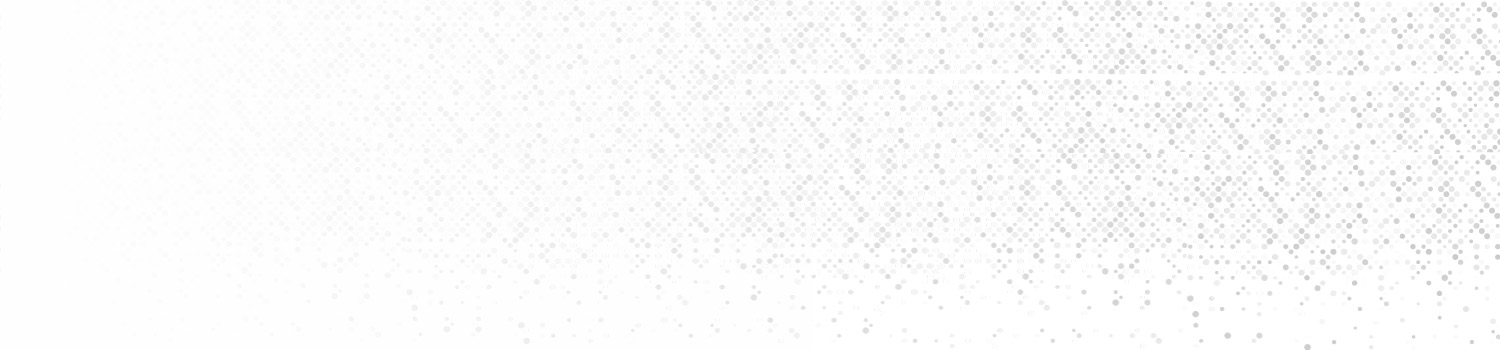
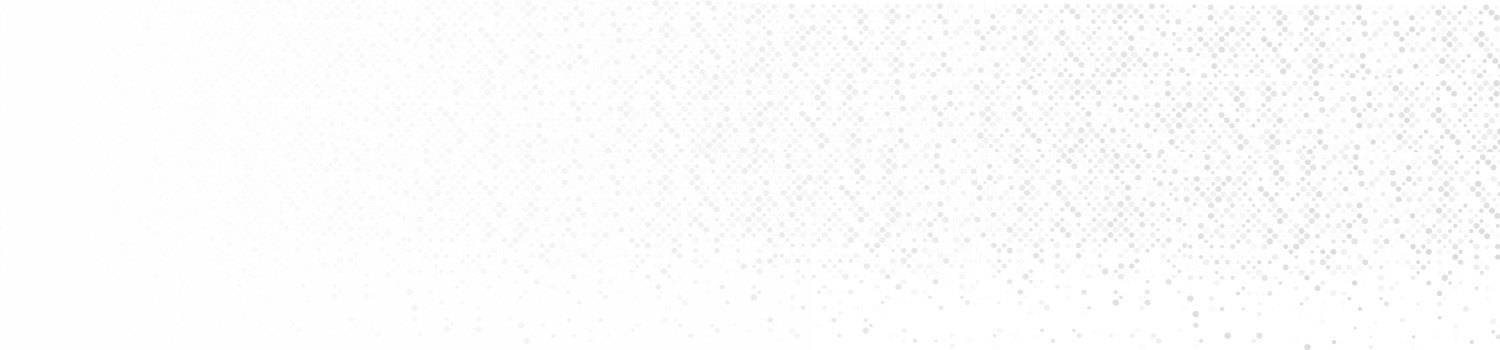
update images; fine tune

diff --git a/lm.html b/lm.html
@@ -47,7 +47,6 @@
         background: url(images/dotsBg.jpg);
         background-size: cover;
         background-position: center;
-        min-height: 400px;
         border-bottom: 5px solid #10243e;} 
     
      .btn-lm{background: #bc4123;
@@ -62,46 +61,50 @@
       #homeBuckets, #midSection, #testimonials, #footSection {
       padding: 0 20px;}
 
-      #midSection{background: #bc4123;
-        background-repeat: repeat-x;
-        min-height: 400px;
-        border-bottom: 5px solid #10243e;
-        border-top: 5px solid #10243e;
+      #midSection{/*background: rgb(191,168,159);
+      background: linear-gradient(180deg, rgba(191,168,159,1) 0%, rgba(250,245,241,1) 100%);*/
+      background: url(images/dotsB.png);
+      background-size: cover;
+      background-position: center;
+      min-height: 400px;
+              /*border-bottom: 5px solid #10243e;
+              border-top: 5px solid #10243e;*/
         width: 100%;}
 
       #midSection h2{font-size:2.5rem;
-         color: #fff;
+         /*color: #fff;*/
         }
       #midSection .border-bottom{
-      border-color: #10243e !important;}
+      border-color: #bc4123 !important;}
 
       #midSection h3{
         font-weight:600;
       font-size: 1.8rem;}  
 
       #midSection h3, #midSection p{
-       color: #fff;
+       /*color: #fff;*/
       } 
 
        #midSection ul.fa-ul {
-        font-size: 1rem;
-        color: #fff;
-        
+        font-size: 1.2rem;
         margin-left: 0;
+        } 
+        #midSection ul.fa-ul li{
+        padding-bottom: .5rem;
         } 
         .fa, .far, .fas {
         margin-right: .7rem;
         }
 
-      #midSection .btn-lm{background: #10243e;
+      #midSection .btn-lm:hover{background: #10243e;
       color: #fff;
       font-family: 'Bai Jamjuree', sans-serif;
       font-weight: 600;
       letter-spacing: .02em}
 
-      #midSection .btn-lm:hover{background: #bc4123;
+      #midSection .btn-lm{background: #bc4123;
       color: #fff;
-      border-color:#10243e;}
+      /*border-color:#10243e;*/}
 
       #testimonials h2{font-size:2.5rem;
         }
@@ -118,6 +121,7 @@
       footer{background: #10243e;
         color:#fff;
         border-top: 2px solid  #bc4123;}
+     
      footer h3{font-family: 'Barlow Semi Condensed', sans-serif;
         color:#fff;
         font-size:1.2rem;}
@@ -128,22 +132,30 @@
     footer ul{list-style: none;
       padding-left:0;
         }   
-
-@media (min-width: 768px) {
-  h1{font-size: 3.8rem;
-      }
-  .navbar-brand img{max-width:250px;}
-}
-
-
-@media (min-width: 992px) {
-   #homeBuckets, #midSection, #testimonials, #footSection {
-      padding: 0 82px;}
-
-  h1{font-size: 4.5rem;
-      }
+     footer .fa-2x {
+        margin-right: .5rem;
     }
 
+      @media (min-width: 768px) {
+        h1{font-size: 3rem;
+            }
+        .navbar-brand img{max-width:250px;}
+      }
+
+
+      @media (min-width: 992px) {
+         #homeBuckets, #midSection, #testimonials, #footSection {
+            padding: 0 82px;}
+
+        h1{font-size: 3.8rem;
+            }
+          }
+      @media (min-width: 1200px) { 
+      h1{font-size: 4.5rem;
+            }
+        .jumbotron {
+        min-height: 400px;} 
+          }
 
   </style>
   </head>
@@ -173,12 +185,12 @@
 <div class="jumbotron pt-2 pt-md-5 pb-0" id="homePage">
   <div class="container-fluid px-5 homeTop">
     <div class="row">
-    <div class="col-sm-7 pt-5 text-center text-md-left">
-      <h1> We make<br> lead generation <span style="font-weight: 900">easy.</span></h1>
+    <div class="col-md-6 col-xl-7 pt-5 text-center text-md-left">
+      <h1>We make<br> lead generation <span style="font-weight: 900">easy.</span></h1>
       <a href="#" class="btn btn-lm btn-lg mt-3 mt-md-5 mb-4" role="button" aria-disabled="true">Request a Demo</a>
       </div><!-- end col -->
-      <div class="col-sm-5 align-self-end">
-      <img src="images/homeLeft.png" class="img-fluid">
+      <div class="col-md-6 col-xl-5 align-self-end">
+      <img src="images/homeLeft2.png" class="img-fluid">
     </div><!-- end col -->
   </div> <!-- end row -->
   </div>  <!-- end container -->
@@ -186,17 +198,17 @@
 
 <div class="container-fluid" id="homeBuckets">
   <div class="row">
-    <div class="col-md-4">
+    <div class="col-md-4 pr-5">
       <h3>We deliver content…</h3>
-      <p>By creating a Resource or Knowledge Center for your organization to post syndicated content that is customizable and searchable. We customize newsletters, implement effective email management, and maintain good list hygiene. We promote and drive traffic to your site. <a href="#" >Learn More</a></p>
+      <p>By creating a Resource or Knowledge Center for your organization to post syndicated content that is customizable and searchable. We specialize with inbox placement to promote customize newsletters, implement effective email management, and exceptional list hygiene. We promote and drive traffic to your site.<a href="#" > Learn More</a></p>
     </div><!-- end col -->
-    <div class="col-md-4"><h3>That engages people…</h3>
-      <p>By sending personalized “thank you” messages, along with automated retargeting and lead nurturing follow-ups. With campaign tracking, dashboards, and lead scoring, our approach keeps your audience stays engaged through the funnel that will lead to conversion and sales. <a href="#" >Learn More</a></p>
+    <div class="col-md-4 pr-5"><h3>That engages people…</h3>
+      <p>We go beyond marketing automation by providing white-gloved service and creating custom landing pages that get your audience to interact and engage. We A/B test and use our experienced professionals to enhance your content to promote greater response. Our personalized approach optimize click- and open-rates that significantly increase conversion.<a href="#" > Learn More</a></p>
      
     </div><!-- end col -->
-    <div class="col-md-4">
+    <div class="col-md-4 pr-5">
        <h3>And generates leads…</h3>
-      <p>With customizable forms to gate your content. Every time someone accesses your content it generates a qualified lead for your or your vendors. Our proprietary “one-click leads” allows your subscribers and members to save time and effort to access content. <a href="#" >Learn More</a></p>
+      <p>With customizable, secure, and trusted forms to gate your content, every time someone accesses your content it generates a qualified lead for your or your vendors. Our approach includes “one-click leads” allows your subscribers and members to save time and effort – so they can focus on viewing your content. With campaign tracking, 24/7 dashboard access, the ability for retargeting and lead nurturing, and third party CRM integration, your audience stays engaged through the funnel. <a href="#" >Learn More</a></p>
     </div><!-- end col -->
   </div> <!-- end row -->
    <div class="row justify-content-end">
@@ -213,21 +225,24 @@
 </div>  <!-- end container -->
 
 <div id="midSection" class="container-fluid mt-5 pt-3 pb-4">
-    <div class="row justify-content-center border-bottom pt-2 pb-3">
+    <div class="row justify-content-center pt-4">
+      
          <h2>Tailored Solutions</h2>
     </div>
-        <div class="row justify-content-center mt-4">
-    <div class="col-md-4 mb-5">
+        <div class="row justify-content-between mt-4">
+    <div class="col-md-3 mb-5">
        <h3>Business </h3>
        <ul class="fa-ul">
         <li><i class="far fa-check-square"></i>Promote your content</li>
         <li><i class="far fa-check-square"></i>Engage your audience</li>
         <li><i class="far fa-check-square"></i>Expand your reach</li>
         <li><i class="far fa-check-square"></i>Grow your business</li>
+        <br>
        </ul>
-        <a href="#" class="btn btn-lm btn" role="button" aria-disabled="true">Learn More</a>
+
+        <a href="#" class="btn btn-lm btn mt-4" role="button" aria-disabled="true">Learn More</a>
     </div><!-- end col -->
-        <div class="col-md-4 mb-5">
+        <div class="col-md-3 mb-5">
        <h3>Associations</h3>
         <ul class="fa-ul">
         <li><i class="far fa-check-square"></i>Promote industry content</li>
@@ -236,18 +251,19 @@
         <li><i class="far fa-check-square"></i>Conference/exhibit integration</li>
         <li><i class="far fa-check-square"></i>Grow non-dues revenue</li>
        </ul>
-               <a href="#" class="btn btn-lm btn" role="button" aria-disabled="true">Learn More</a>
+               <a href="#" class="btn btn-lm btn mt-3" role="button" aria-disabled="true">Learn More</a>
 
     </div><!-- end col -->
-        <div class="col-md-4 mb-5">
+        <div class="col-md-3 mb-5">
        <h3>Publishers</h3>
               <ul class="fa-ul">
         <li><i class="far fa-check-square"></i>Promote advertiser content</li>
         <li><i class="far fa-check-square"></i>Reach subscribers & website visitors</li>
         <li><i class="far fa-check-square"></i>Drive more subscribers</li>
         <li><i class="far fa-check-square"></i>Grow advertising income</li>
+        <br>
        </ul>
-               <a href="#" class="btn btn-lm btn" role="button" aria-disabled="true">Learn More</a>
+               <a href="#" class="btn btn-lm btn mt-4" role="button" aria-disabled="true">Learn More</a>
 
     </div><!-- end col -->
    </div><!-- end row -->
@@ -257,7 +273,7 @@
   <div class="row justify-content-center py-4">
          <h2>What Our Clients Are Saying</h2>
     </div>
-  <div class="row">
+  <div class="row mb-4">
     <div class="col-md-6 pr-xl-5 mb-2">
     <h5>  When it comes to digital marketing and lead generation, there are loads of vendors out there that talk a good game, but Lead Marvels delivers and actually makes it happen. They have enabled us to quickly roll-out a new lead generation product that has enormous opportunities for revenue growth, which we're already experiencing. They're fully engaged and invested in our success, and bringing our customers great results. We're very happy with the relationship.</h5>
       <div class="row my-4 align-items-center">
